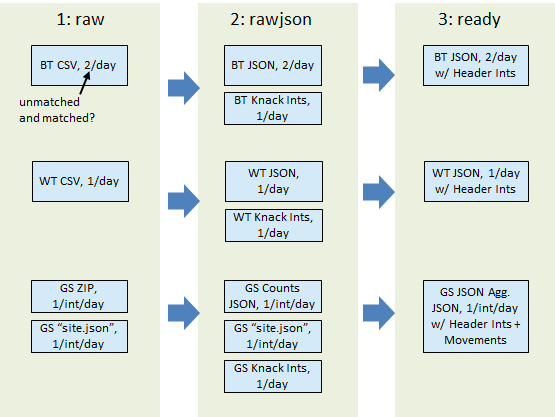
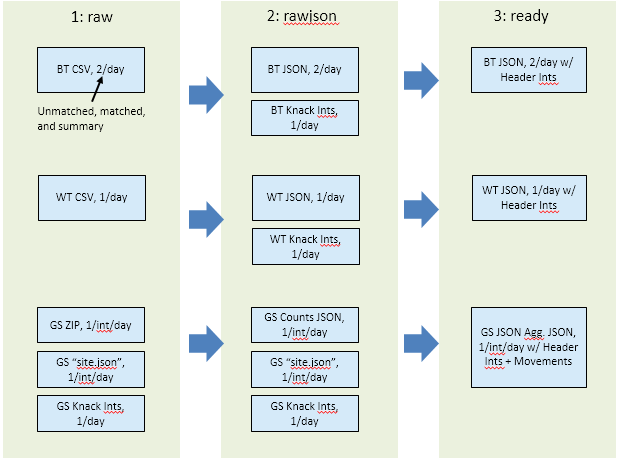
Final changes to the documents before internal review

diff --git a/docs/tech_architecture.md b/docs/tech_architecture.md
@@ -77,33 +77,35 @@ A PostgREST database acts as an inventory. It contains pointers to the data file
 
 Within the AWS Bucket are three layers: `raw`, `raw-json` and `ready`. The purpose of the `raw` layer is to fetch data from various sources and place untouched files into the Data Lake. It preserves the integrity of the original data and leverages low-cost cloud storage. Because the Data Lake is in its early stages of development, maintaining raw data integrity allows for later flexibility in processing. For example, if a different way of standardizing the data for a more complex data integration effort is established, the raw data can still be accessed. This also removes the burden of long-term storage from the peripheral sensors.
 
-In the `raw-json` layer, the data is accessible for further processing through unzipping files and canonizing to JSON. The idea is that if a mistake is made in later data processing stages, steps such as unzipping files do not have to be repeated. To place data into the bucket, an algorithm gathers the data files needing to be processed from the inventory, fetches them from the first layer and subsequently canonicalizes them to a standardized JSON format.
+In the `raw-json` layer, the data are accessible for further processing through unzipping files and canonizing to JSON. The idea is that if a mistake is made in later data processing stages, steps such as unzipping files do not have to be repeated. To place data into the bucket, an algorithm gathers the data files needing to be processed from the inventory, fetches them from the first layer and subsequently canonicalizes them to a standardized JSON format.
 
 The `ready` layer contains merges City-maintained sensor location information (currently located in Knack) to actual data so that a single file or set of files are self-contained. The theory is that no other sources or files are necessary to make sense of the data within the file.
 
 ## Source Code
 
-The code that had been written to perform the data processing activities shown below is currently stored in the `nmc/coa_dev` repository that's located on a private GitLab server hosted by CTR NMC. This and its dependencies are intended to be migrated to the [`cityofaustin/atd-data-lake` repository](https://github.com/cityofaustin/atd-data-lake) hosted on GitLab.
+The code that had been written to perform the data processing activities shown below is currently stored in the `nmc/coa_dev` repository that's located on a private, internal GitLab server hosted by CTR NMC. The code is for Python 3. This and its dependencies are intended to be migrated to the [`cityofaustin/atd-data-lake` repository](https://github.com/cityofaustin/atd-data-lake) hosted on GitHub.
 
-Entry-points referenced in this document abide by the `cityofaustin/atd-data-deploy` interface, as found in [GitHub](https://github.com/cityofaustin/atd-data-deploy). In short, this interface provides a "cron"-driven method for launching ETL activities that also log progress to a database.
+Entry-points referenced in this document abide by the `cityofaustin/atd-data-deploy` interface, as found in [GitHub](https://github.com/cityofaustin/atd-data-deploy). In short, this interface provides a "cron"-driven method for launching Dockerized ETL activities that also log progress to a database.
+
+Within the `nmc/coa_dev` source code tree, command-line entry points are currently in the `aws_transport` package. The special `_setpath.py` script allows modules within `aws_transport` to be run from that directory. There are a number of system-specific configurations that are globally accessible from within the `aws_transport.support.config` package. This contains further mechanisms for accessing the `aws_transport.support.config_secret` package, which contains API keys and passwords that are not to be publicly shared. These help with reaching PostgREST, Knack, Socrata, and AWS. Future efforts may involve looking at an online escrow agent that can manage these items, rather than a package.
 
 ## Data Source Specifics
 
 ### Bluetooth
 
-[Find further information on Bluetooth in this document.](datasrc_bt.md)
+[Go to further information on Bluetooth.](datasrc_bt.md)
 
 ### GRIDSMRT
 
-[Find further information on GRIDSMART in this document.](datasrc_gs.md)
+[Go to further information on GRIDSMART.](datasrc_gs.md)
 
 ### Wavetronix
 
-[Find further information on Wavetronix in this document.](datasrc_wt.md)
+[Go to further information on Wavetronix.](datasrc_wt.md)
 
 ## Data Lake Catalog
 
-The Data Lake Catalog, accessible through a PostgREST interface, provides a queryable record of all entries that had been added to the Data Lake. Every time a new file is written to a layer of the Data Lake, a new entry is created for the catalog. This is the Catalog's structure:
+The Data Lake Catalog, accessible through a PostgREST interface, provides a queryable record of all entries that had been added to the Data Lake. Every time a new file is written to a layer of the Data Lake, a new entry is created for the catalog. This is the Catalog's PostgreSQL table definition:
 
 ```
  Table "api.data_lake_catalog"
@@ -139,27 +141,27 @@ The `data_lake_catalog_pkey` key is created to prevent duplicate entries. It is 
 
 The `data_lake_catalog_date_idx` index is crucial for quick time-based searches for records.
 
-A change that is planned to happen for the Data Lake Catalog is for the identifier to be split into two parts-- a "base" and "ext" entry. This can assist with searches that are specific to data types. For example, for GRIDSMART records that correspond with a specific intersection, the "rawjson" layer may have one file per detector, and there may be 8 or 16 of them. In this case, the "base" portion can have the intersection name, and the "ext" portion can have the detector identifier. This "base/ext" scheme is intended to circumvent challenging string processing and query hacks that ended up needing to happen in the current code rendition.
+A change that is planned to happen for the Data Lake Catalog is for the identifier to be split into two parts-- a "base" and "ext" entry. This can assist with searches that are specific to data types. For example, for GRIDSMART records that correspond with a specific intersection, the "rawjson" layer may have one file per detector, and there may be 8 or 16 of them. In this case, the "base" portion can have the intersection name, and the "ext" portion can have the detector identifier (e.g. its GUID). This "base/ext" scheme is intended to circumvent unsightly string processing and query hacks that ended up needing to happen in the current code rendition.
 
 ## Other Coding Challenges
 
 ### System Time
 
-The EC2 server is currently on UTC time. Cron jobs must be adjusted accordingly so they run at the desired local time. Default database dumps also don't have time zone defined. These cause confusion.
+The EC2 server is currently running with UTC time. The crontab (schedule that causes automated `cityofaustin/atd-data-deploy` jobs to periodically run) must be adjusted accordingly so they run at the desired local time. Default database dumps also don't have time zone defined. These cause confusion.
 
-Online opinions about setting server time zones vary greatly. For those running a global enterprise, there are strong opinions about running systems in UTC. But, the only concern for COA ATD is Central Time Zone.
+Online opinions about setting server time zones vary greatly. For those running a global enterprise, there are strong opinions about running systems in UTC. But, the only concern for CoA ATD is Central Time Zone.
 
 For the benefit of "cron" and possibly database extract, the most elegant solution is to set the local time zone. Changing the system time zone requires a reboot, and is to be scheduled soon.
 
 ### Street Naming
 
-It was especially apparent in GRIDSMART street naming that there are inconsistencies when comparing to street names in Knack. Most of the street names are the same, but
+It was especially apparent in GRIDSMART street naming that there are inconsistencies when comparing to street names in Knack. Most of the street names are the same, but there are some cases where synonymous names are used and the formatting is different. For example:
 
 * "Loop 360" $\iff$ "CAPITAL OF TEXAS HIGHWAY"
 * "Loop 1" $\iff$ "Mopac" or "MOPAC EXPY SVRD"
 * "Hancock Mall" $\iff$ "N IH 35 SVRD SB AT 41ST TRN"
 
-Additionally, GPS coordinates in devices are not accurate. For the time being, a string lookup exists that draws from the `support.config.STREET_SYNONYMS` dictionary. There's also `support.config.KNACK_LOOKUPS` for Knack lookups. A more sustainable mechanism would include one or more of the following:
+Additionally, GPS coordinates stored in GRIDSMART devices (the Site Files) are not accurate. For the time being, a string lookup exists that draws from the `support.config.STREET_SYNONYMS` dictionary. There's also `support.config.KNACK_LOOKUPS` for Knack lookups. A more sustainable mechanism would include one or more of the following:
 
 * A practice of using names that are uniformly formatted to those in Knack, Austin Corporate GIS, or SharedStreets; or,
 * Tying an identifier within the GRIDSMART device (the hardware ID) with the Knack table. This second choice has been pursued back in June, 2019 but needs to be revisited.

diff --git a/docs/intro_function.md b/docs/intro_function.md
@@ -6,7 +6,7 @@ There is a growing need for cities to make data generated within city limits pub
 
 Austin's Data Lake approach to sustainably store and archive sensor data preserves the integrity of the original data and leverages low-cost cloud storage. By preserving the integrity of sensor data, ATD retains the ability to re-process the data at a later time for novel analyses that have yet to be developed while keeping in mind city resources.
 
-ATD's Data Lake is a layered system where raw data is stored and processed intermediaries as stored as JSON files. The layered system leverages the significantly lower cost of cloud storage over computing power  where the processed layers can be batched or nightly processed, depending on City resources. Further, to allow flexibility in meeting various data needs, end-user products (whether it be a database, or a CSV file dump) depend on use-cases. We delve into the components of the Data Lake architecture to showcase how it achives its objectives.
+ATD's Data Lake is a layered system where raw data is stored and processed intermediaries as stored as JSON files. The layered system leverages the significantly lower cost of cloud storage over computing power  where the processed layers can be batched or nightly processed, depending on City resources. Further, to allow flexibility in meeting various data needs, end-user products (whether it be a database, or a CSV file dump) depend on use-cases. We delve into the components of the Data Lake architecture to show how it is intended to achive its objectives.
 
 ## Overall Structure
 
@@ -22,30 +22,29 @@ Together, the above components preserve the integrity of the sensor data, facili
 
 ## Digging Deeper
 
-The PostgREST catalog contains pointers to the data files with collection and processing dates and other metadata. By keeping track of each processing step for each data file, the catalog allows flexibility in stop-and go processing. The AWS Raw Bucket has a year/month/day/data source file structure that preserves the integrity of the original data. A process within the City infrastructure reads files from source and uploads to AWS Raw Bucket and catalogs them. 
+The PostgREST catalog contains pointers to the data files with collection and processing dates and other metadata. By keeping track of each processing step for each data file, the catalog allows flexibility in stop-and go processing. The AWS Raw Bucket has a year/month/day/data source file structure that preserves the integrity of the original data. Processes within the City infrastructure reads data from sources and uploads them to AWS Raw Bucket and catalogs them. 
 
-Similarly, the AWS Canonical Raw Bucket retains the integrity of raw data while making it accessible for further processing through unzipping files and canonizing to JSON. The idea is that if a mistake is made, processes such as unzipping files do not have to be repeated. To get data into the Canonical Bucket, an algorithm gathers the data files needing to be processed, fetches them from the first bucket and subsequently canonizes them to a standadized JSON format. Standardization is a good common practice for data integration efforts and a JSON specification provides a "portable representation of structured data" [1] and is less verbose than, for example, XML.
+Similarly, the AWS Canonical Raw Bucket retains the integrity of raw data while making it accessible for further processing through unpacking files and canonizing to JSON. The idea is that if a mistake is made, processes such as unpacking files do not have to be repeated. To get data into the Canonical Bucket, an algorithm gathers the data files needing to be processed, fetches them from the first bucket and subsequently canonizes them to a standadized JSON format. Standardization is a good common practice for data integration efforts and a JSON specification provides a "portable representation of structured data" [1] and is less verbose than, for example, XML.
 
 <img src="figures/data_lake.png" width="700">
 
 The Canonical Raw Bucket file structure follows that of the Raw Bucket, plus additional files that archive and catalog sensor information. A process within the cloud framework reads from the City infrastructure to attain the sensor information to then merge with the actual data. 
 
-Lastly, a process within the cloud framework gathers data files from Bucket 2, then processes, catalogues and uploads the data into the third AWS bucket. However, in processing data files from buckets 2 to 3, the data is aggregated and merged with sensor information. This way, all data files within the AWS Processed Data Bucket are largely self-contained. As such, further temporal or spatial aggregations are easily computed and custom end-user products can be delivered. Again, JSON allows ease of data exchange through APIs.
+Lastly, a process within the cloud framework gathers data files from Bucket 2, then processes, catalogues and uploads the data into the third AWS bucket. However, in processing data files from the second bucket to the third, the data is aggregated and merged with sensor information. This way, all data files within the AWS Processed Data Bucket are largely self-contained. As such, further temporal or spatial aggregations are easily computed and custom end-user products can be delivered. Again, JSON allows ease of data exchange through APIs.
 
 ![AWS Bucket Structure](figures/bucket_file_structure.png)
 
-*TODO: Update image (file:///C:\Users\kap2357\Desktop\Deskfiles\CoA%20Task12%2020190326%20KAP.pptx, slide 8)*
-
 ## Challenges and Design Criteria
 
-The design of the Data Lake incorporated considerations on other designs learned about in other cities' open data efforts. After evaluating such designs, realizations guided the multi-layered design that had been implemented for this project. That is:
+The design of the Data Lake incorporates considerations on other designs learned about in other cities' open data efforts. While evaluating such designs, realizations guided the multi-layered design that had been implemented for this project. That is:
 
 * Cloud services have a number of features that are proprietary and lead to "vendor lock-in". We want to minimize the use of vendor-specific APIs.
 * Cloud services bill for various resources. We want to use resources in the most cost-effective way. In comparing with cloud offerings, the flat-file storage capabilities of S3 was found to be far more cost-effective than relational or noSQL database offerings.
-  * The cloud service landscape changes, so costs should be surveyed again.
+  * The cloud service landscape changes, so costs should be surveyed again, near a yearly basis.
   * There is a need to have a fine-grained ability to measure the costs on specific resources.
 * Live data updates are not a high priority currently. An end-of-day batch processing model was targeted.
   * The code that performs the data transformations needs to be as simple as possible. Ongoing efforts for FY20 are intended to improve upon this by streamlining code, improving testability, and consolidating common functionlitiy into libraries.
+  * The code can be structured to better facilitate line-by-line live updates.
 * Different buckets offer different security and cost mechanisms. Sensitive data can be anonymized in downstream processing. Other parties may be given access to specific resources in such a way that the cost of data extraction may be passed on to them.
 
 The following summarizes findings emerging from conference calls with data practitioners working with Portland, OR, and Denver, CO data:
@@ -67,6 +66,7 @@ The restrictions are largely imposed to protect personal identifiable informatio
 * What is the relationship between micro-mobility and transit? Do people choose to use scooters instead of transit? Or do scooters facilitate getting to/going from transit stops?
 * What does a "tourist" trip trajectory look like vs. a "commuter" trip?
 
+Efforts for establishing a data sharing agreement with a dockless mobility provider are currently being pursued and evaluated.
 
 ## Citations
 [1] https://www.ietf.org/rfc/rfc4627.txt

diff --git a/docs/delivered_items.md b/docs/delivered_items.md
@@ -1,0 +1,28 @@
+# Data Archiving and Integration: Delivered Items
+
+*[(Back to Docs Catalog)](index.md)*
+
+
+This doucment outlines items that were produced during the course of the project: City of Austin IAC Task #12: Data Archiving and Integration.
+
+## Final Report
+
+**9/2019**: The Markdown-formatted document accessible from the [Docs Catalog](index.md) serves as the Final Report for the FY19 activities.
+
+## Data
+
+**7/2019**: Two years of data (from June 1, 2017 to now) for Bluetooth IAF, ITMF, and TMSR have been loaded into Socrata. New days' worth of data auto-update nightly.
+
+**9/2019**: Two years of data (from June 1, 2017 to now) for GRIDSMART aggregations have been loaded into Socrata.
+
+*(Auto-loading GRIDSMART)*
+
+*(Wavetronix)*
+
+## Code
+
+*(cityofaustin/atd-data-lake public code repository)*
+
+**9/2019**: Access to the "nmc/coa_dev" internal GitLab repository was shared with a CoA team member.
+
+**3/2019**: End-to-end CSV extraction for Bluetooth IAF.

diff --git a/docs/datasrc_bt.md b/docs/datasrc_bt.md
@@ -2,7 +2,7 @@
 
 *[(Back to Technical Architecture)](tech_architecture.md)*
 
-Bluetooth data has three data file types: Individual Address Files (IAF), Individual Traffic Match Files (ITMF), and Traffic Match Summary Records (TMSR). Below is the system architecture for all three types of files, shown below.
+Bluetooth data has three data file types: Individual Address Files (IAF), Individual Traffic Match Files (ITMF), and Traffic Match Summary Records (TMSR). Below is the system architecture for all three types of files.
 
 | Bluetooth System Architecture <br><img src="figures/new_bt_overview.png">
 | ---

diff --git a/docs/index.md b/docs/index.md
@@ -18,3 +18,4 @@ This document serves as a technical summary/report for activities conducted duri
 
 * [Introduction and Functional Overview](intro_function.md)
 * [Technical Architecture](tech_architecture.md)
+* [Delivered Items Log](delivered_items.md)
